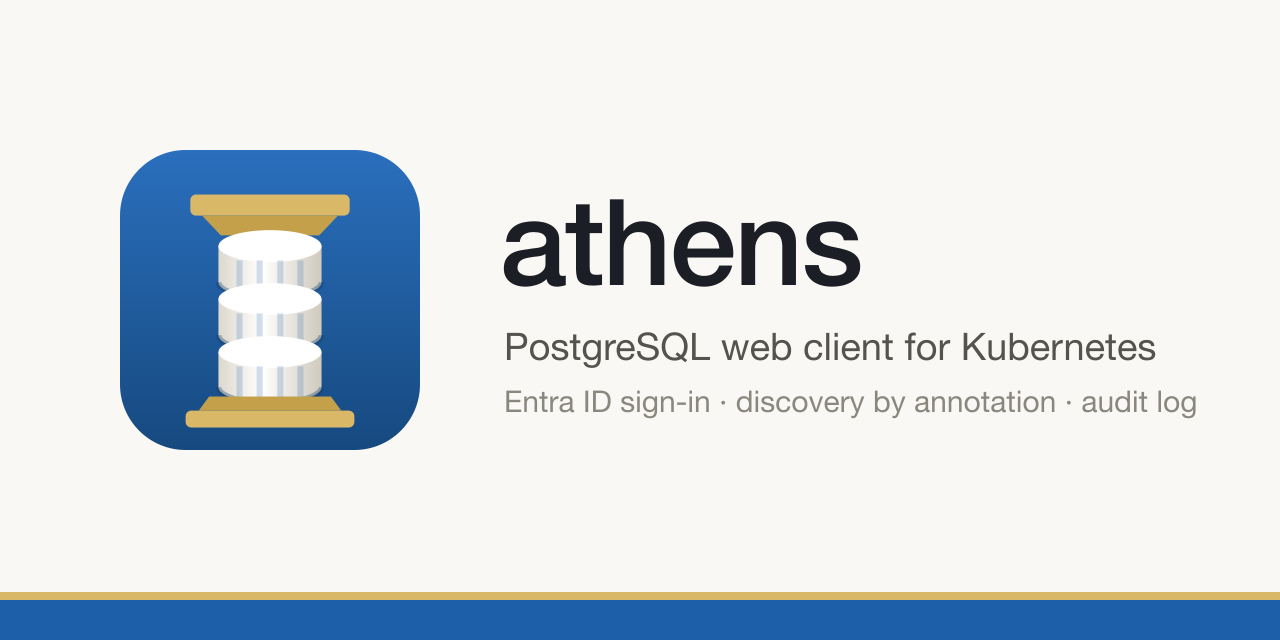
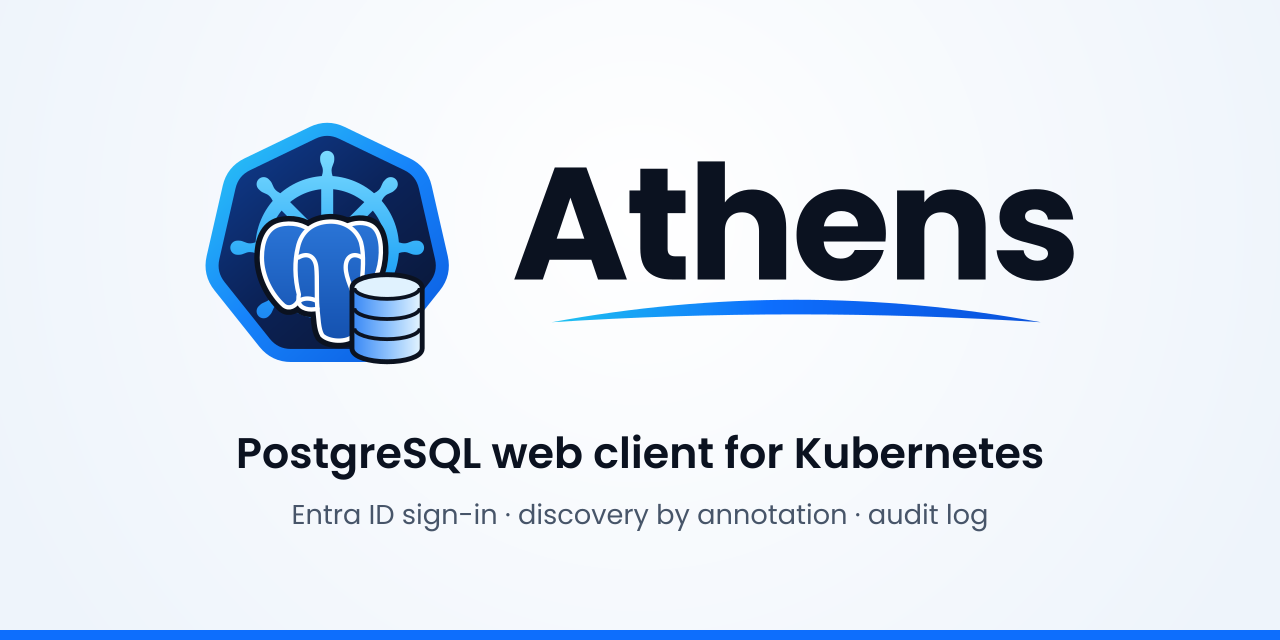
feat(brand): Athens brand from the owner's brand sheet
Clean SVG redraw of the approved concept: helm wheel, elephant and database
stack in a rounded heptagon, navy/blue/cyan, Poppins Bold wordmark as paths.
Icon, favicon (simplified for 16/32 px), light/dark lockups (README header
via <picture>), mono marks, PNG exports and a new social preview. The UI
shows the name as "Athens".

diff --git a/web/src/features/login/LoginPage.tsx b/web/src/features/login/LoginPage.tsx
@@ -36,7 +36,7 @@ export function LoginPage() {
       <section className="login-card" aria-labelledby="login-title">
         <div className="login-brand">
           <img className="brand-mark login-mark" src="/favicon.svg" alt="" />
-          <span>athens</span>
+          <span>Athens</span>
         </div>
         <h1 id="login-title">Sign in</h1>
         <p className="login-lead">

diff --git a/web/index.html b/web/index.html
@@ -4,7 +4,7 @@
     <meta charset="UTF-8" />
     <meta name="viewport" content="width=device-width, initial-scale=1.0" />
     <link rel="icon" type="image/svg+xml" href="/favicon.svg" />
-    <title>athens</title>
+    <title>Athens</title>
   </head>
   <body>
     <div id="root"></div>

diff --git a/web/src/features/shell/Sidebar.tsx b/web/src/features/shell/Sidebar.tsx
@@ -8,7 +8,7 @@ export function Brand() {
   return (
     <a className="brand" href="/">
       <img className="brand-mark" src="/favicon.svg" alt="" />
-      athens
+      Athens
     </a>
   );
 }

diff --git a/docs/DECISIONS.md b/docs/DECISIONS.md
@@ -144,11 +144,15 @@ darker `--accent-fill` / `--danger-fill` so white labels pass WCAG AA, and
 body/secondary/tertiary text measure 14.2 / 7.2 / 4.7:1 on the surface. Theme
 tokens carry no colour transitions: Safari kept stale colours on transitioned
 elements after a theme switch.
-Icon (`docs/assets/athens-icon.svg`, also the favicon and the sidebar/sign-in
-mark): a column whose shaft is three stacked database drums (Greek columns
-were built from stone drums) with laurel-gold capital and base on an Aegean
-blue tile. It replaces the generic lucide "landmark" glyph and the leftover
-Gruvbox favicon.
+Brand (replaces an interim column icon): the owner's brand sheet, redrawn
+as clean SVG in `docs/assets/brand/`. A rounded heptagon with a helm wheel,
+a Slonik-style elephant and a database stack, navy/blue/cyan palette, the
+"Athens" wordmark in Poppins Bold (as paths) with a swoosh. Icon, favicon
+(simplified for 16/32 px), light/dark lockups, mono marks and the social
+preview. The motifs echo the Kubernetes wheel and the PostgreSQL elephant;
+both are third-party marks (CNCF, PostgreSQL Community Association), so
+clear their use with the owners' trademark policies before any commercial
+or trademark use of the logo. The UI theme stays Aegean.
 
 ## ADR-020 Discovery is opt-in (annotation-only) by default
 Automatic discovery showed every postgres-looking workload in the listed

diff --git a/README.md b/README.md
@@ -1,8 +1,9 @@
 <p align="center">
-  <img src="docs/assets/athens-icon.svg" alt="" width="96" height="96">
+  <picture>
+    <source media="(prefers-color-scheme: dark)" srcset="docs/assets/brand/athens-logo-dark.svg">
+    <img src="docs/assets/brand/athens-logo-light.svg" alt="Athens" width="360">
+  </picture>
 </p>
-
-<h1 align="center">athens</h1>
 
 <p align="center">
   PostgreSQL web client for Kubernetes, with Microsoft Entra ID sign-in,<br>
